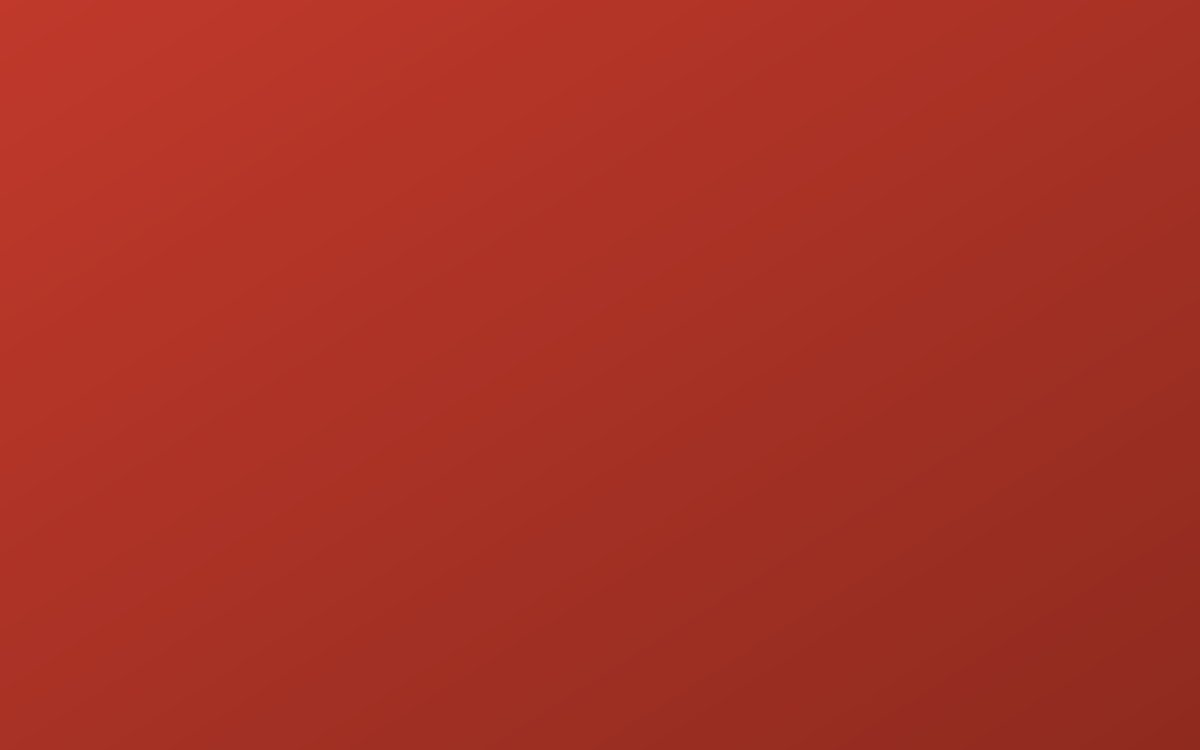
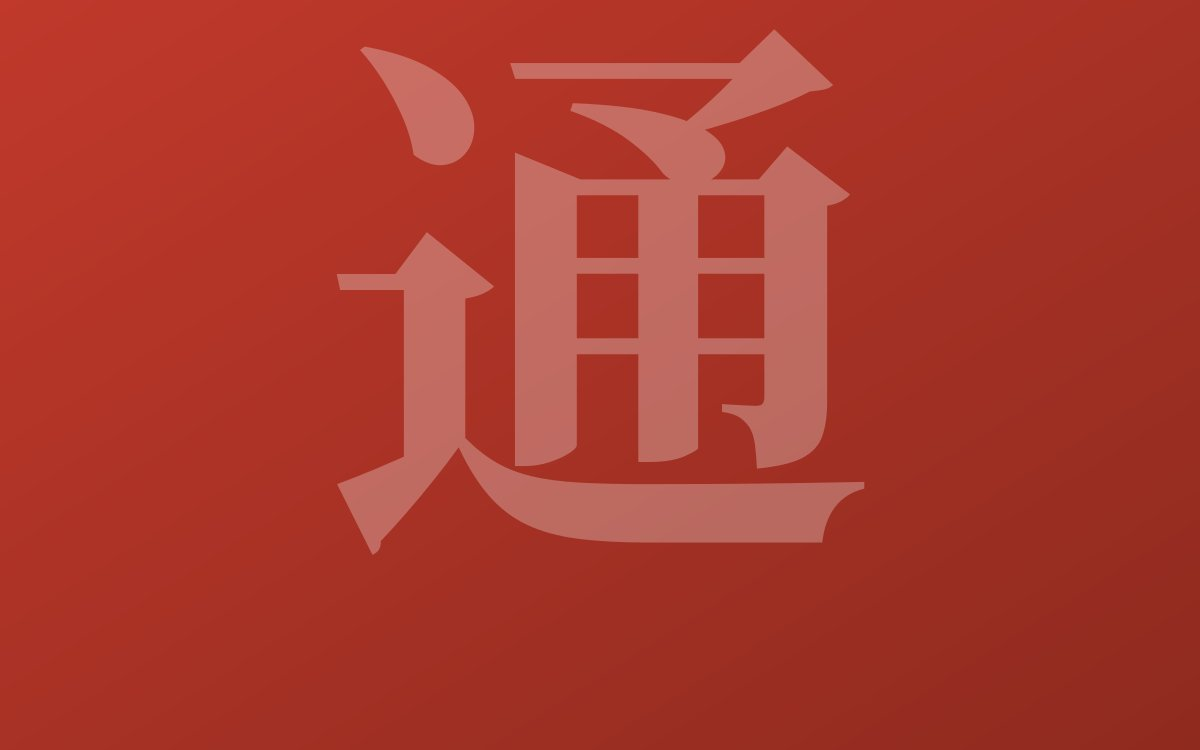
Fix: layanan card placeholders looked broken (flat color, no visual)
Replaced the plain gradient placeholder for the 4 beranda.html
"Layanan" cards with the same kanji-watermark treatment already used
on each service's own hero section, so the tile reads as an
intentional placeholder instead of a missing/broken image while
admin uploads real photos.

Changed region(s): [[0.2775, 0.0307, 0.74, 0.736], [0.2775, 0.0613, 0.4008, 0.2147]]

diff --git a/scripts/gen-hero-placeholders.js b/scripts/gen-hero-placeholders.js
@@ -39,10 +39,14 @@ const heroFiles = [
 ];
 
 // "Layanan" cards on beranda.html — plain white card, real <h3> title right
-// below the image, so the placeholder itself must carry NO text. One brand
-// tone per card for visual variety (still only the site's own 3 colors).
+// below the image, so the placeholder itself must carry NO title text. But a
+// FLAT color alone reads as "image missing" to visitors (no photo texture,
+// no icon) — so each card gets the same big kanji watermark treatment used
+// on the matching page's own hero (see .japanese-watermark in css/style.css:
+// 訳=jasa-penerjemah, 通=jasa-interpreter, 学=kursus-bahasa, 働=tokutei-ginou),
+// just at higher opacity since here it's the card's only visual content.
 const CARD_W = 1200, CARD_H = 750;
-function cardSvg(colorA, colorB) {
+function cardSvg(colorA, colorB, kanji) {
   return `
 <svg width="${CARD_W}" height="${CARD_H}" xmlns="http://www.w3.org/2000/svg">
   <defs>
@@ -52,14 +56,16 @@ function cardSvg(colorA, colorB) {
     </linearGradient>
   </defs>
   <rect width="${CARD_W}" height="${CARD_H}" fill="url(#g)"/>
+  <text x="${CARD_W / 2}" y="${CARD_H / 2 + 130}" font-family="Noto Serif JP, Yu Mincho, MS Mincho, serif"
+        font-size="560" font-weight="700" fill="#ffffff" fill-opacity="0.28" text-anchor="middle">${kanji}</text>
 </svg>`;
 }
 
 const cardFiles = [
-  { file: 'layanan-penerjemahan.jpg', colorA: '#1f1c1a', colorB: '#0a0a0a' }, // ink
-  { file: 'layanan-interpreter.jpg',  colorA: '#c0392b', colorB: '#8f2a1f' }, // red
-  { file: 'layanan-kursus.jpg',       colorA: '#b8960c', colorB: '#8c7209' }, // gold
-  { file: 'layanan-tokutei.jpg',      colorA: '#0a0a0a', colorB: '#8f2a1f' }, // ink → red
+  { file: 'layanan-penerjemahan.jpg', colorA: '#1f1c1a', colorB: '#0a0a0a', kanji: '訳' }, // ink
+  { file: 'layanan-interpreter.jpg',  colorA: '#c0392b', colorB: '#8f2a1f', kanji: '通' }, // red
+  { file: 'layanan-kursus.jpg',       colorA: '#b8960c', colorB: '#8c7209', kanji: '学' }, // gold
+  { file: 'layanan-tokutei.jpg',      colorA: '#0a0a0a', colorB: '#8f2a1f', kanji: '働' }, // ink → red
 ];
 
 (async () => {
@@ -67,8 +73,8 @@ const cardFiles = [
     await sharp(Buffer.from(heroSvg)).jpeg({ quality: 85 }).toFile(path.join(outDir, file));
     console.log('wrote', file);
   }
-  for (const { file, colorA, colorB } of cardFiles) {
-    await sharp(Buffer.from(cardSvg(colorA, colorB))).jpeg({ quality: 85 }).toFile(path.join(outDir, file));
+  for (const { file, colorA, colorB, kanji } of cardFiles) {
+    await sharp(Buffer.from(cardSvg(colorA, colorB, kanji))).jpeg({ quality: 85 }).toFile(path.join(outDir, file));
     console.log('wrote', file);
   }
 })();

diff --git a/CHANGELOG.md b/CHANGELOG.md
@@ -8,6 +8,11 @@ Log perubahan project. Format entri: **tanggal — ringkasan perubahan — file/
 
 ---
 
+## 2026-09-07 — Fix: kartu "Layanan" di beranda terlihat kosong/rusak
+- **Laporan user:** setelah 4 placeholder foto layanan diganti gradient polos (lihat entri di bawah), kartu terlihat seperti gambar gagal tampil — dicek langsung ke production (`curl` + baca file JPG-nya), file-nya 200 OK dan valid, cuma warna solid tanpa elemen visual apa pun jadi tidak terbaca sebagai "gambar" oleh pengunjung.
+- **Fix:** `scripts/gen-hero-placeholders.js` diperbarui — tiap kartu sekarang punya watermark kanji besar (opacity 0.28) senada dengan kanji yang sudah dipakai di hero halaman terkait (訳=jasa-penerjemah, 通=jasa-interpreter, 学=kursus-bahasa, 働=tokutei-ginou), supaya jelas terlihat disengaja sambil menunggu admin upload foto asli lewat admin panel (slot sudah ada di tab "Gambar Website" > Beranda).
+- Terdampak: `images/layanan-*.jpg` (4 file), `scripts/gen-hero-placeholders.js`.
+
 ## 2026-09-07 — Cek & perbaikan tampilan mobile sebelum deploy
 - Ditemukan 4 gambar lagi dengan pola sama seperti hero placeholder sebelumnya: `images/layanan-penerjemahan.jpg`, `layanan-interpreter.jpg`, `layanan-kursus.jpg`, `layanan-tokutei.jpg` (dipakai di 4 kartu "Layanan Kami" beranda.html) ternyata baked-in teks judul (bahkan ada typo "Translater") yang duplikat dengan `<h3>` di bawahnya — makin terlihat jelek/terpotong di layar mobile sempit.
 - Diganti gradient brand bersih (ink/merah/emas, tanpa teks) via `scripts/gen-hero-placeholders.js` (diperluas untuk menangani kedua kategori: hero 2:1 dan kartu layanan 16:10).
